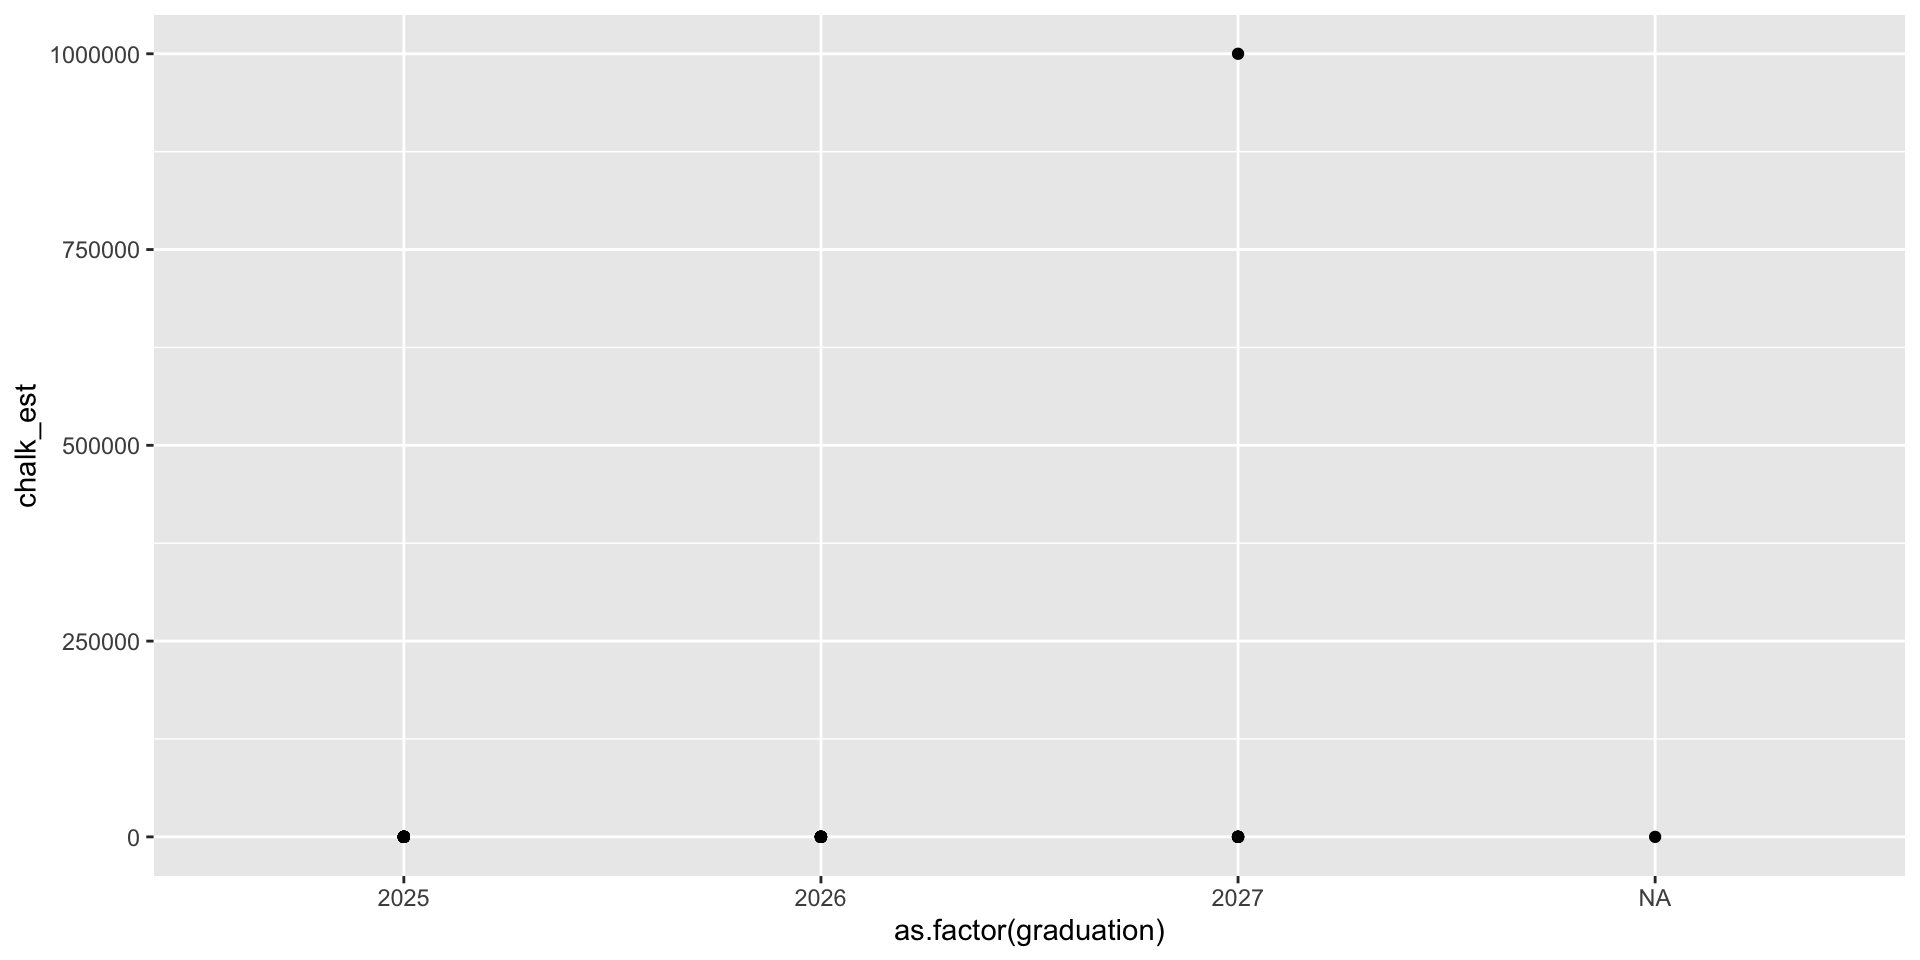
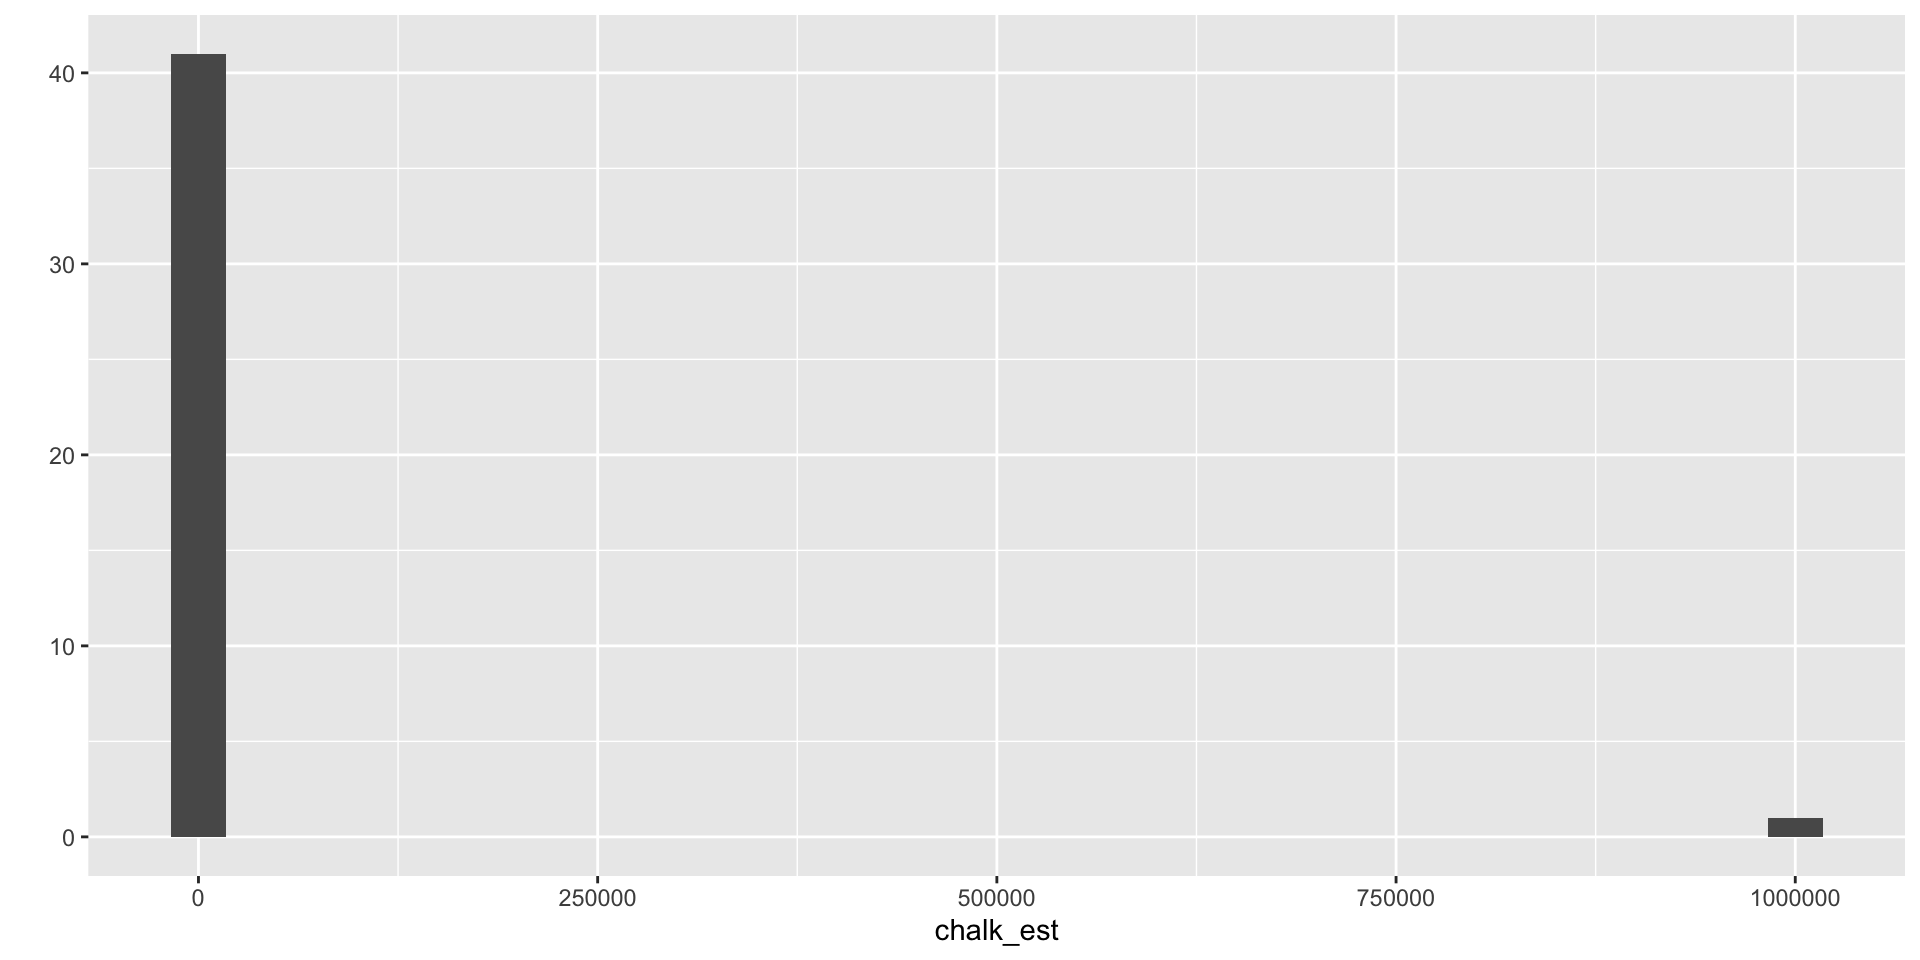
slides update

diff --git a/docs/lectures/02_one-way-ANOVA.html b/docs/lectures/02_one-way-ANOVA.html
@@ -557,7 +557,7 @@ Prof Randi Garcia
 <section id="one-way-anova-1" class="slide level2">
 <h2>One-Way ANOVA</h2>
 <div class="cell">
-<div class="sourceCode cell-code" id="cb3"><pre class="sourceCode numberSource r number-lines code-with-copy"><code class="sourceCode r"><span id="cb3-1"><a></a><span class="fu">qplot</span>(<span class="at">x =</span> <span class="fu">as.factor</span>(graduation), <span class="at">y =</span> chalk_est, <span class="at">data =</span> survey)</span></code><button title="Copy to Clipboard" class="code-copy-button"><i class="bi"></i></button></pre></div>
+<div class="sourceCode cell-code" id="cb3"><pre class="sourceCode numberSource r number-lines code-with-copy"><code class="sourceCode r"><span id="cb3-1"><a></a><span class="fu">qplot</span>(<span class="at">x =</span> chalk_est, <span class="at">data =</span> survey)</span></code><button title="Copy to Clipboard" class="code-copy-button"><i class="bi"></i></button></pre></div>
 
 </div>
 <img data-src="02_one-way-ANOVA_files/figure-revealjs/unnamed-chunk-2-1.png" width="960" class="r-stretch"></section>
@@ -568,20 +568,34 @@ Prof Randi Garcia
 <span id="cb4-2"><a></a>  <span class="fu">filter</span>(chalk_est <span class="sc">&lt;</span> <span class="dv">100</span>)</span></code><button title="Copy to Clipboard" class="code-copy-button"><i class="bi"></i></button></pre></div>
 </div>
 </section>
-<section id="one-way-anova-2" class="slide level2">
-<h2>One-Way ANOVA</h2>
+<section id="data-cleaning-1" class="slide level2">
+<h2>Data Cleaning</h2>
 <div class="cell">
-<div class="sourceCode cell-code" id="cb5"><pre class="sourceCode numberSource r number-lines code-with-copy"><code class="sourceCode r"><span id="cb5-1"><a></a><span class="fu">qplot</span>(<span class="at">x =</span> graduation, <span class="at">y =</span> chalk_est, <span class="at">data =</span> survey, <span class="at">geom =</span> <span class="st">"boxplot"</span>)</span></code><button title="Copy to Clipboard" class="code-copy-button"><i class="bi"></i></button></pre></div>
+<div class="sourceCode cell-code" id="cb5"><pre class="sourceCode numberSource r number-lines code-with-copy"><code class="sourceCode r"><span id="cb5-1"><a></a><span class="fu">qplot</span>(<span class="at">x =</span> chalk_est, <span class="at">data =</span> survey)</span></code><button title="Copy to Clipboard" class="code-copy-button"><i class="bi"></i></button></pre></div>
 
 </div>
 <img data-src="02_one-way-ANOVA_files/figure-revealjs/unnamed-chunk-4-1.png" width="960" class="r-stretch"></section>
+<section id="data-cleaning-2" class="slide level2">
+<h2>Data Cleaning</h2>
+<div class="cell">
+<div class="sourceCode cell-code" id="cb6"><pre class="sourceCode numberSource r number-lines code-with-copy"><code class="sourceCode r"><span id="cb6-1"><a></a>survey <span class="ot">&lt;-</span> survey <span class="sc">%&gt;%</span></span>
+<span id="cb6-2"><a></a>  <span class="fu">filter</span>(chalk_est <span class="sc">&lt;</span> <span class="dv">40</span>)</span></code><button title="Copy to Clipboard" class="code-copy-button"><i class="bi"></i></button></pre></div>
+</div>
+</section>
+<section id="one-way-anova-2" class="slide level2">
+<h2>One-Way ANOVA</h2>
+<div class="cell">
+<div class="sourceCode cell-code" id="cb7"><pre class="sourceCode numberSource r number-lines code-with-copy"><code class="sourceCode r"><span id="cb7-1"><a></a><span class="fu">qplot</span>(<span class="at">x =</span> graduation, <span class="at">y =</span> chalk_est, <span class="at">data =</span> survey, <span class="at">geom =</span> <span class="st">"boxplot"</span>)</span></code><button title="Copy to Clipboard" class="code-copy-button"><i class="bi"></i></button></pre></div>
+
+</div>
+<img data-src="02_one-way-ANOVA_files/figure-revealjs/unnamed-chunk-6-1.png" width="960" class="r-stretch"></section>
 <section id="one-way-anova-3" class="slide level2">
 <h2>One-Way ANOVA</h2>
 <div class="cell">
-<div class="sourceCode cell-code" id="cb6"><pre class="sourceCode numberSource r number-lines code-with-copy"><code class="sourceCode r"><span id="cb6-1"><a></a><span class="fu">qplot</span>(<span class="at">x =</span> <span class="fu">factor</span>(graduation), <span class="at">y =</span> chalk_est, <span class="at">data =</span> survey, <span class="at">geom =</span> <span class="st">"boxplot"</span>)</span></code><button title="Copy to Clipboard" class="code-copy-button"><i class="bi"></i></button></pre></div>
+<div class="sourceCode cell-code" id="cb8"><pre class="sourceCode numberSource r number-lines code-with-copy"><code class="sourceCode r"><span id="cb8-1"><a></a><span class="fu">qplot</span>(<span class="at">x =</span> <span class="fu">factor</span>(graduation), <span class="at">y =</span> chalk_est, <span class="at">data =</span> survey, <span class="at">geom =</span> <span class="st">"boxplot"</span>)</span></code><button title="Copy to Clipboard" class="code-copy-button"><i class="bi"></i></button></pre></div>
 
 </div>
-<img data-src="02_one-way-ANOVA_files/figure-revealjs/unnamed-chunk-5-1.png" width="960" class="r-stretch"></section>
+<img data-src="02_one-way-ANOVA_files/figure-revealjs/unnamed-chunk-7-1.png" width="960" class="r-stretch"></section>
 <section id="the-meats" class="slide level2">
 <h2>The Meats</h2>
 <p>One-Way Design</p>
@@ -637,12 +651,8 @@ Prof Randi Garcia
 <!-- - **ratio:** numerical variable that has a true zero point.  -->
 <!--     - students’ times to complete cognitive task -->
 <!--     - enzyme concentration -->
-<img data-src="pics/bit.ly_sds290exit.png" class="r-stretch"></section>
-<section id="work-on-homework-1b" class="slide level2">
-<h2>Work on Homework 1b</h2>
-<p>Find instructions <a href="https://randilgarcia.github.io/sds290spring24/pdfs/HW%201b_CITI%20Training.pdf">here</a></p>
 
-<div class="quarto-auto-generated-content">
+<img data-src="pics/bit.ly_sds290exit.png" class="r-stretch"><div class="quarto-auto-generated-content">
 <div class="footer footer-default">
 
 </div>
